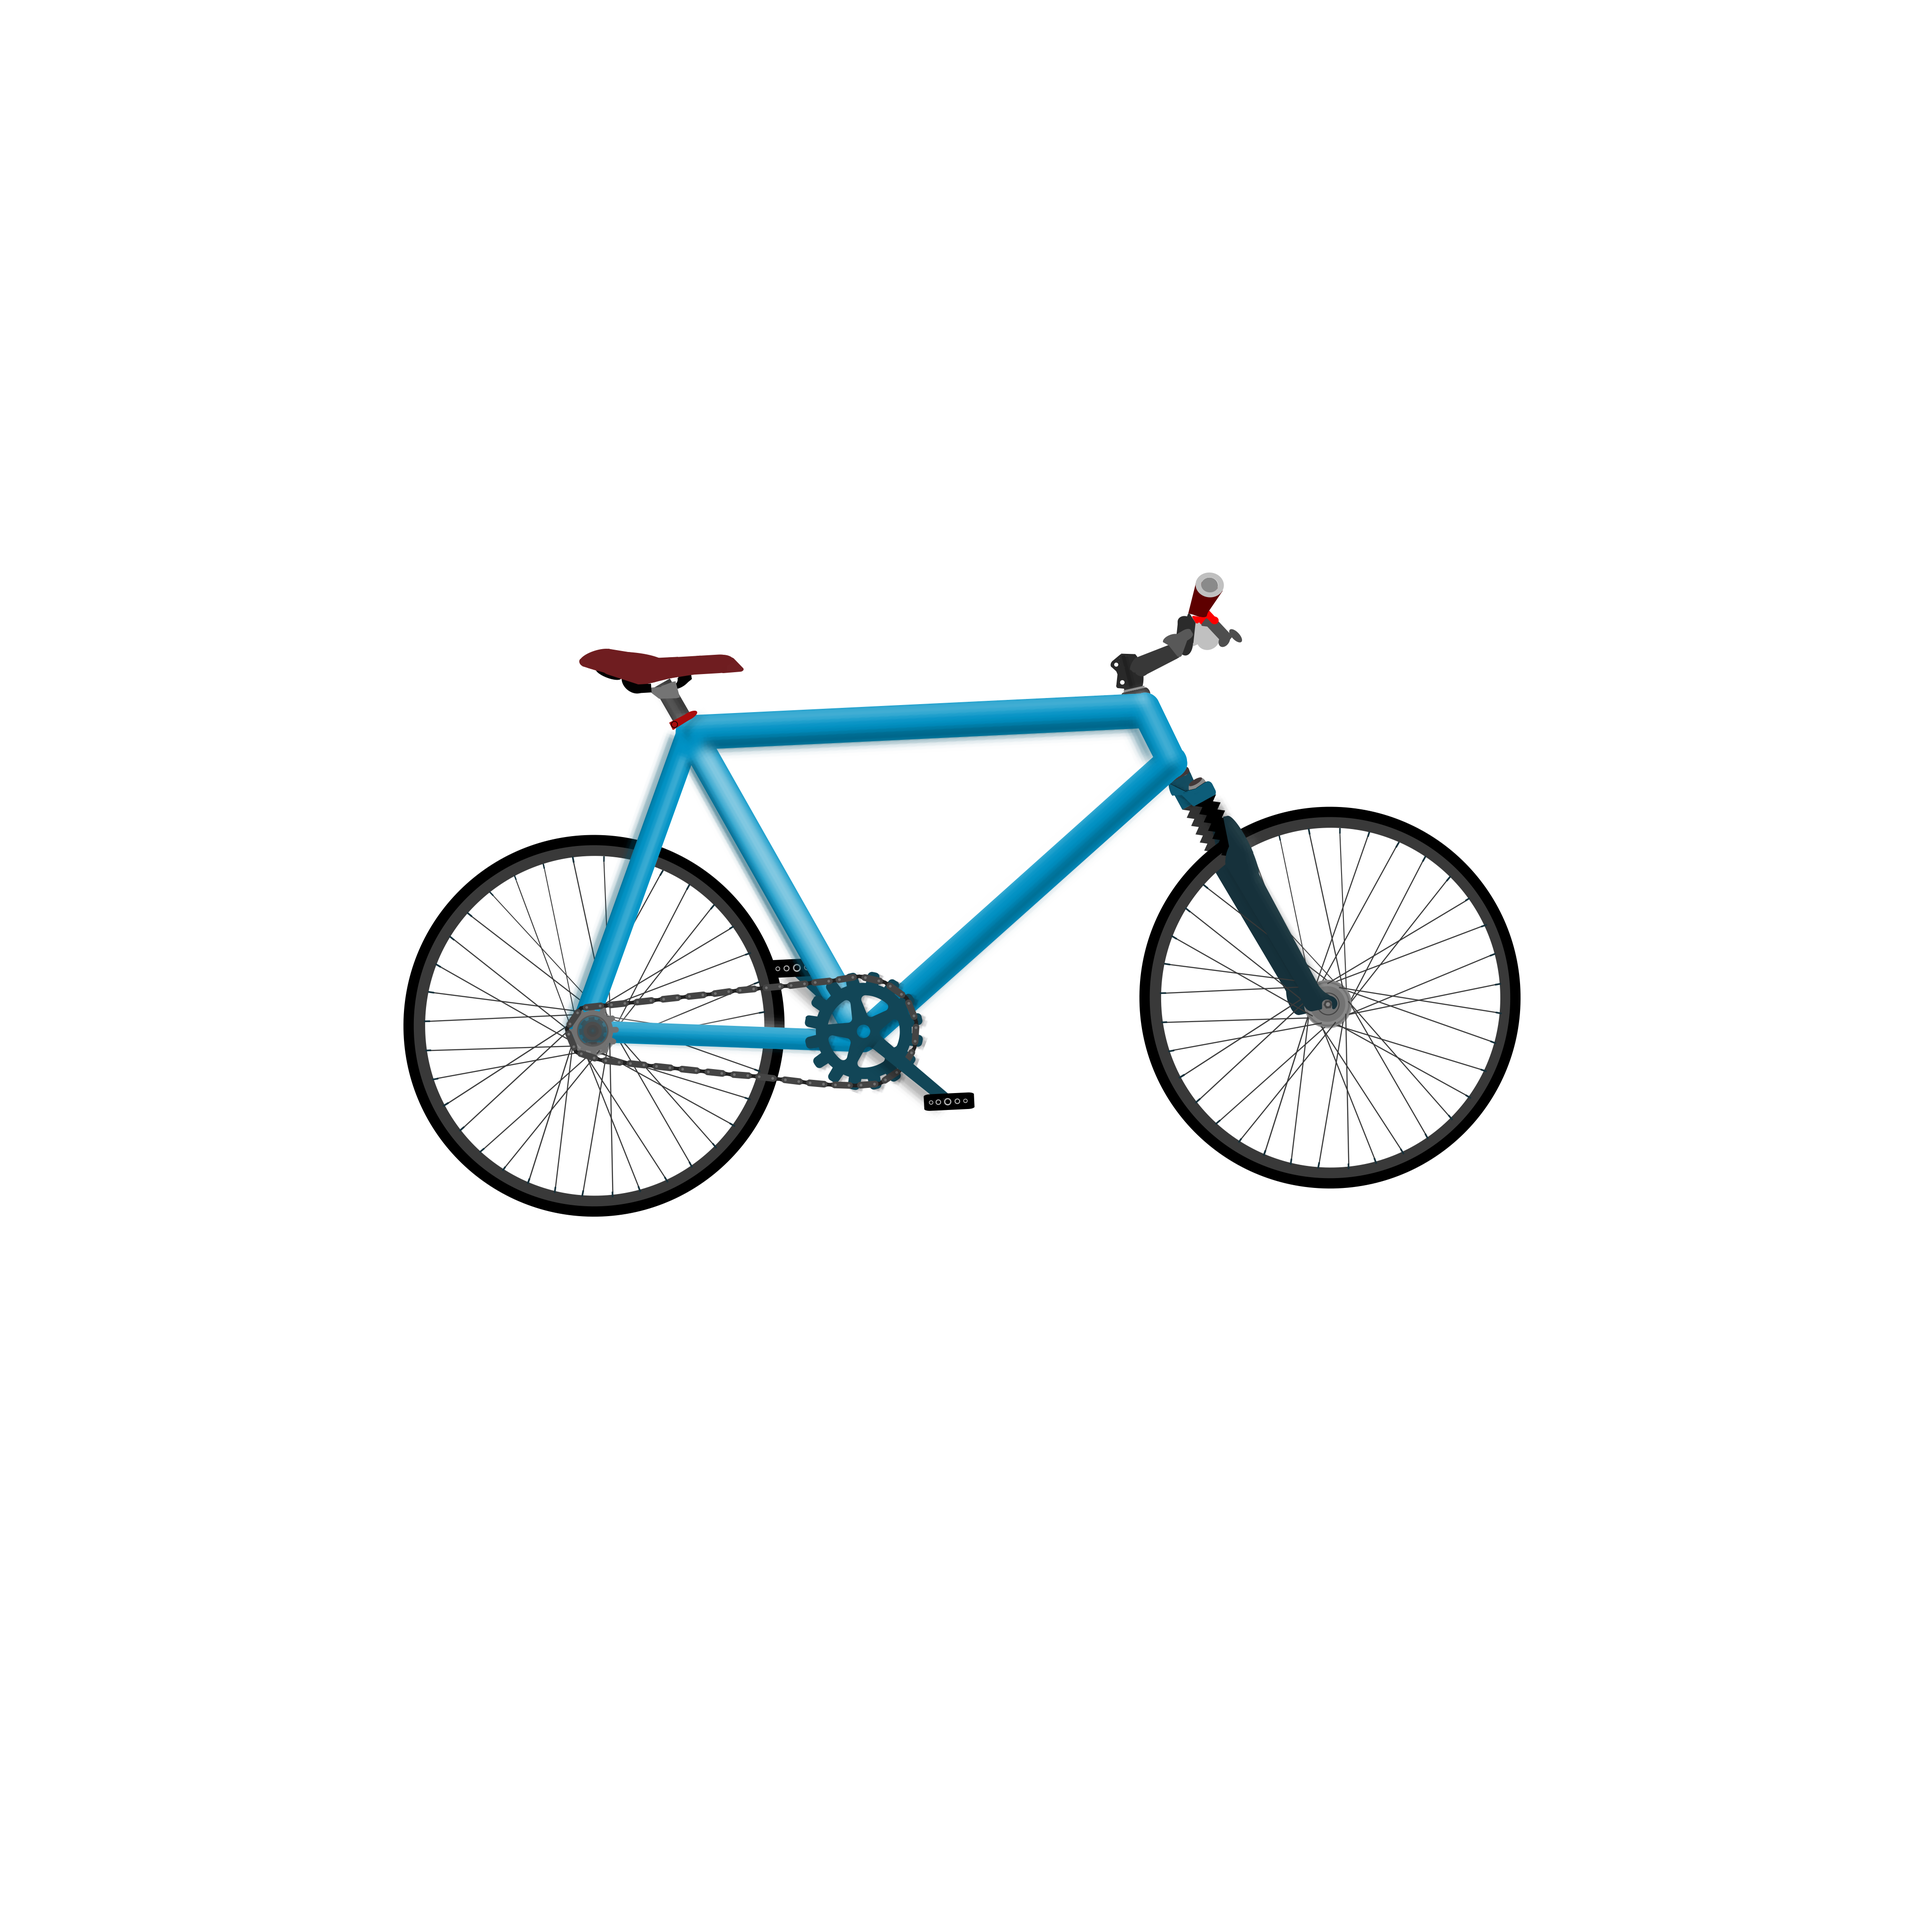
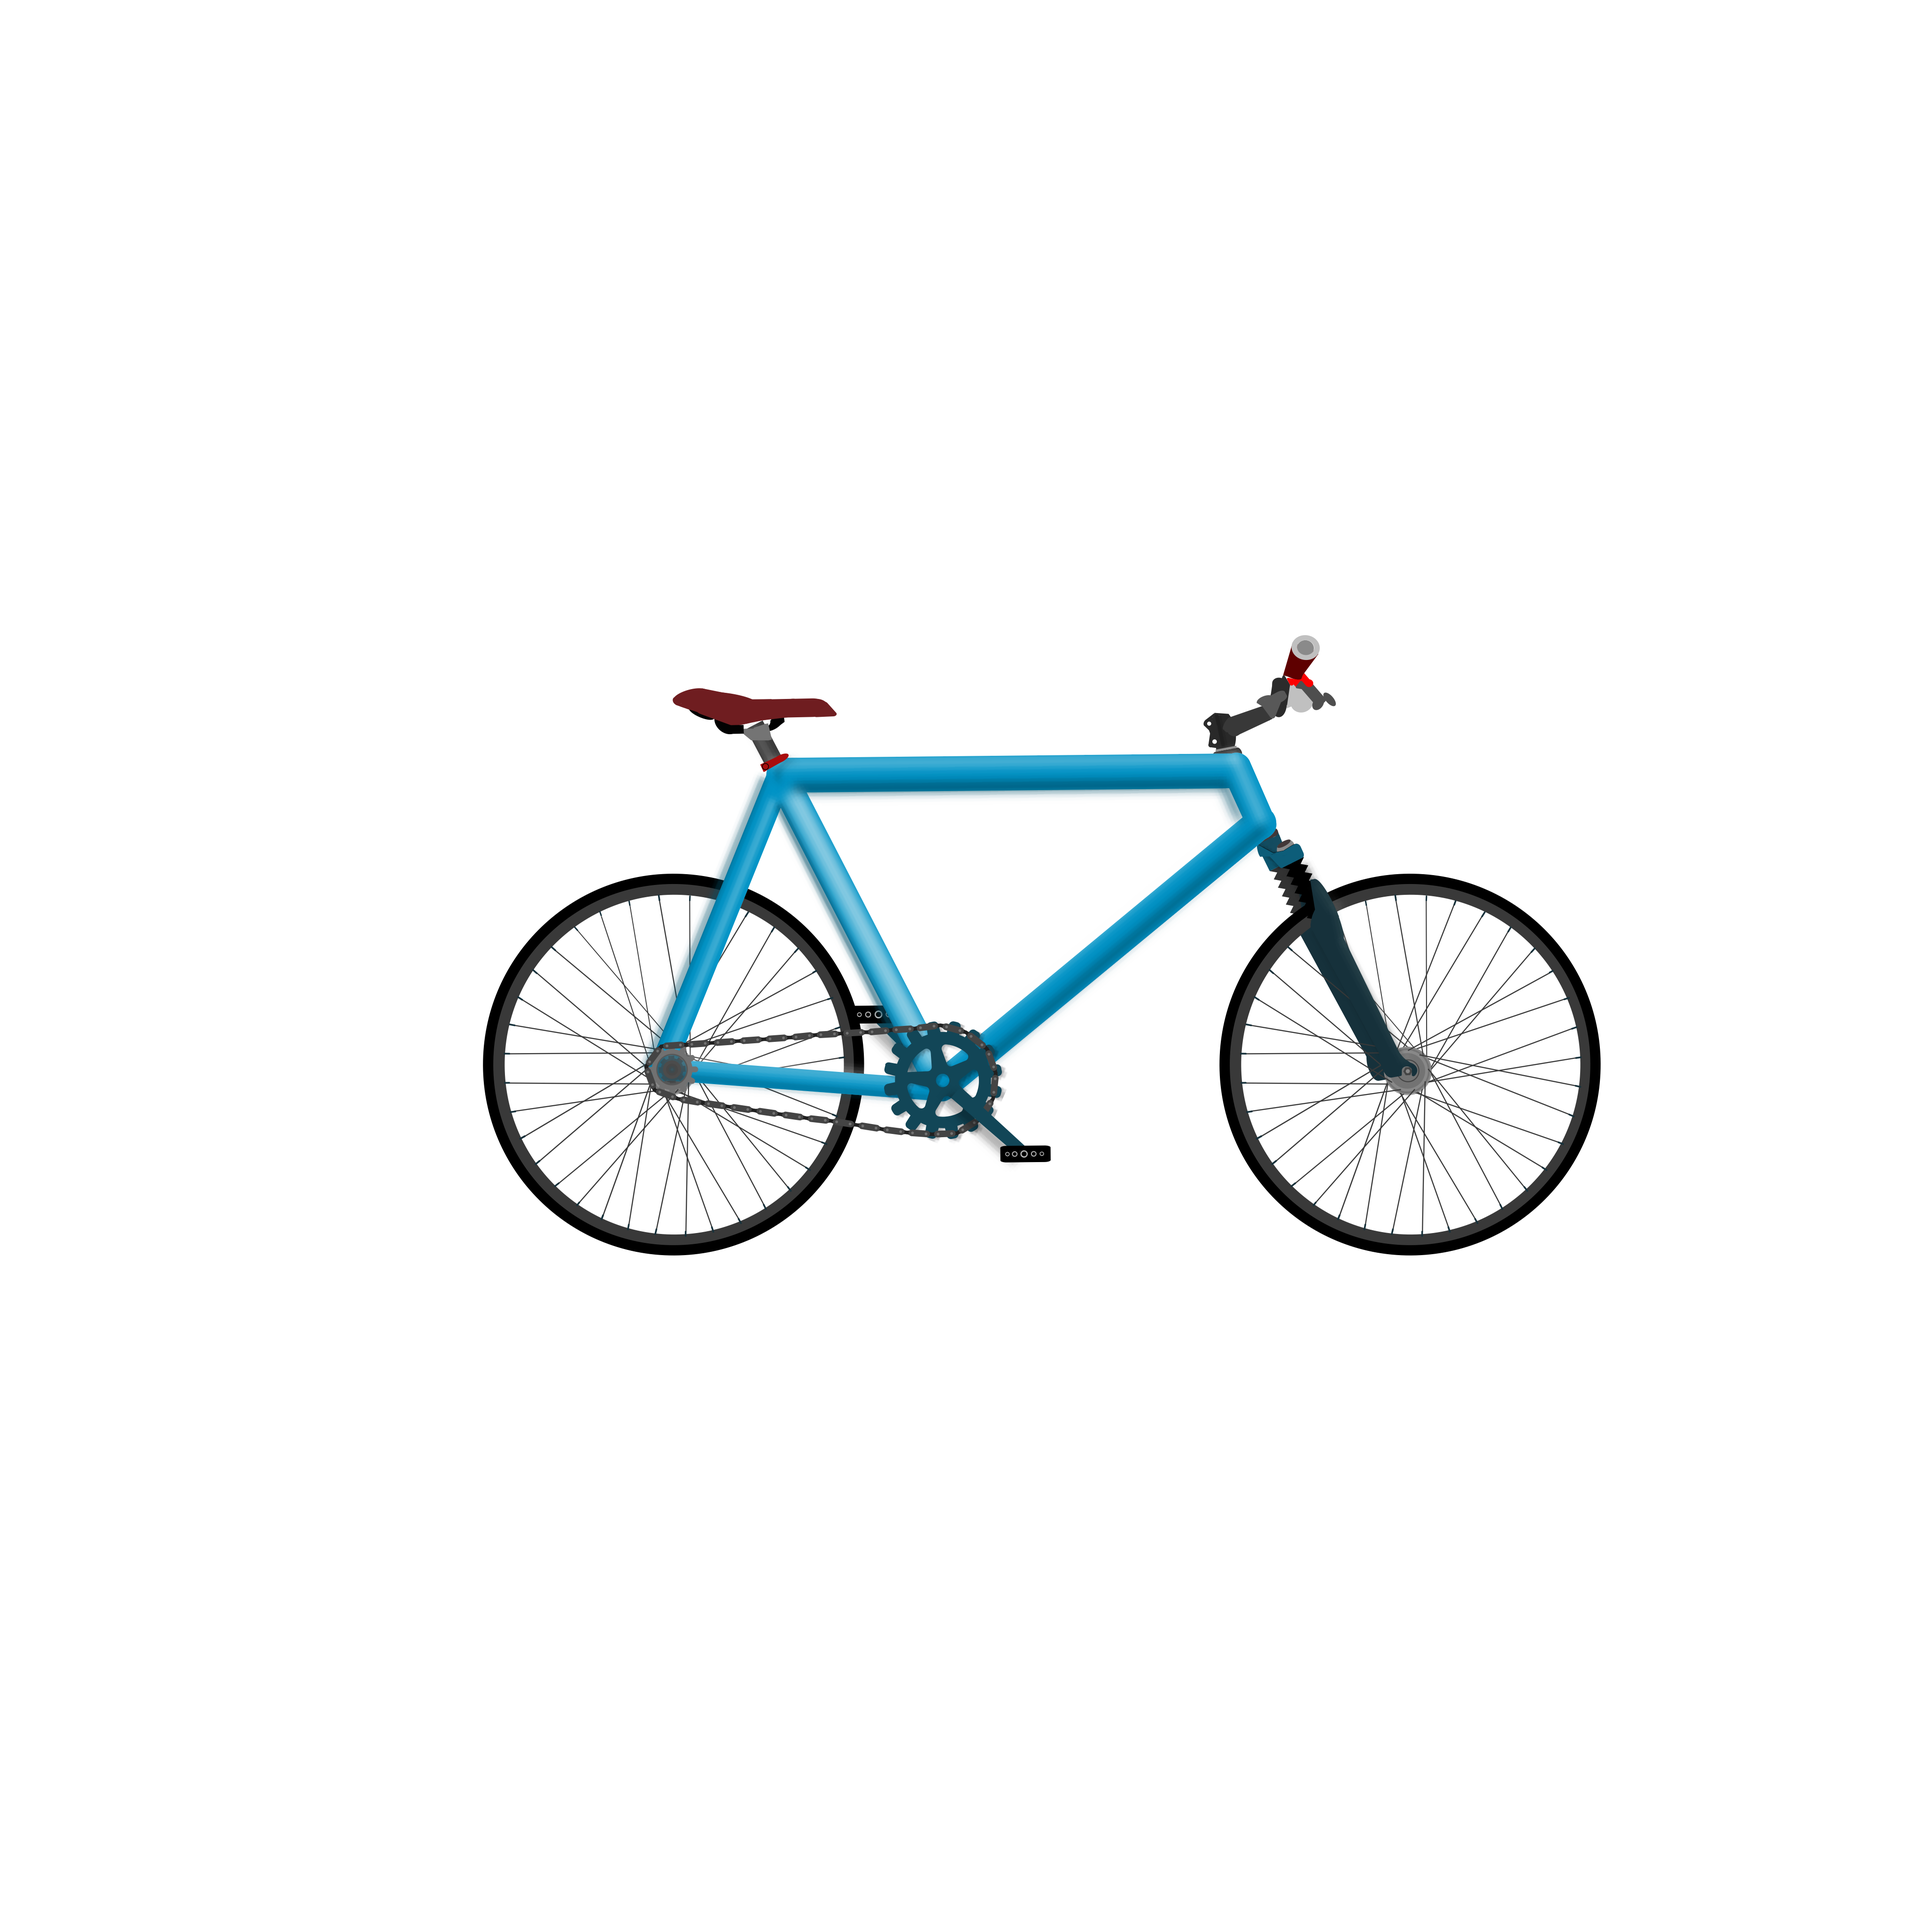
gave sliding effect on bicycle and improved location header

Changed region(s): [[0.1875, 0.2812, 0.8438, 0.6562]]

diff --git a/app/assets/stylesheets/home.scss b/app/assets/stylesheets/home.scss
@@ -143,7 +143,7 @@
             .tuneHeader {
                 position: relative;
                 top: 30px;
-                left: 22%;
+                left: 26%;
                 height: 250px;
                 
                  
@@ -157,7 +157,7 @@
                 width: 100%;
                 text-align: center;
                 margin: 0;  
-                margin-bottom: 10%;
+                margin-bottom: 5%;
                 padding: 0;
                 p {
                     padding-left: 20%;
@@ -167,20 +167,24 @@
 
             .customer {
                 position: relative;
-                height: 150px;
+                height: 180px;
                 right: 10%;
                 
             }
             .mechanic {
                 position: relative;
-                height: 180px;
+                
+                margin-top: 2%;
+                height: 210px;
                 left: 10%;
                 
             }
             .cust_bicycle {
                 position: absolute; 
-                left: 30%;
-                height: 250px; 
+                z-index: 1;
+                top: 7%;
+                left: 24%;
+                height: 280px; 
             }
             
             #window1 {
@@ -226,14 +230,18 @@
                
            }
           
+           .contactHeader {
+               width: 60%;
+               
+               position: relative;
+               left: 20%;
+           }
            .location p{
-                   text-align: center;
-               }
-               h1{
-                   font-family:"Helvetica Neue", Helvetica;
-                   text-align: center;
-               }
-            
+                   padding-left: 10%;
+              
+                
+           }
+           
          #map {
                
                padding-top: 50px;

diff --git a/app/assets/javascripts/home.js b/app/assets/javascripts/home.js
@@ -29,15 +29,15 @@ $(document).ready(function(){
  /*logo parallax
   *listening to a window scroll event */
    $(window).scroll(function(){
-       console.log("hi");
+       console.log(wScroll);
        //how many pixels am i relation to the top of the page
        var wScroll = $(this).scrollTop();
        //landing effect on logo
  
-       if(wScroll > $('.tuneHeader').offset().top-($(window).height()/3) && wScroll<=738) {
+       if(wScroll > $('.tuneHeader').offset().top-($(window).height()/3) && wScroll<=790) {
            
          $('.cust_bicycle').css({
-                'left': '8%',
+                'left': '0%',
               'transform' : 'translate('+wScroll/3+'%, 0px)' 
            });
       
